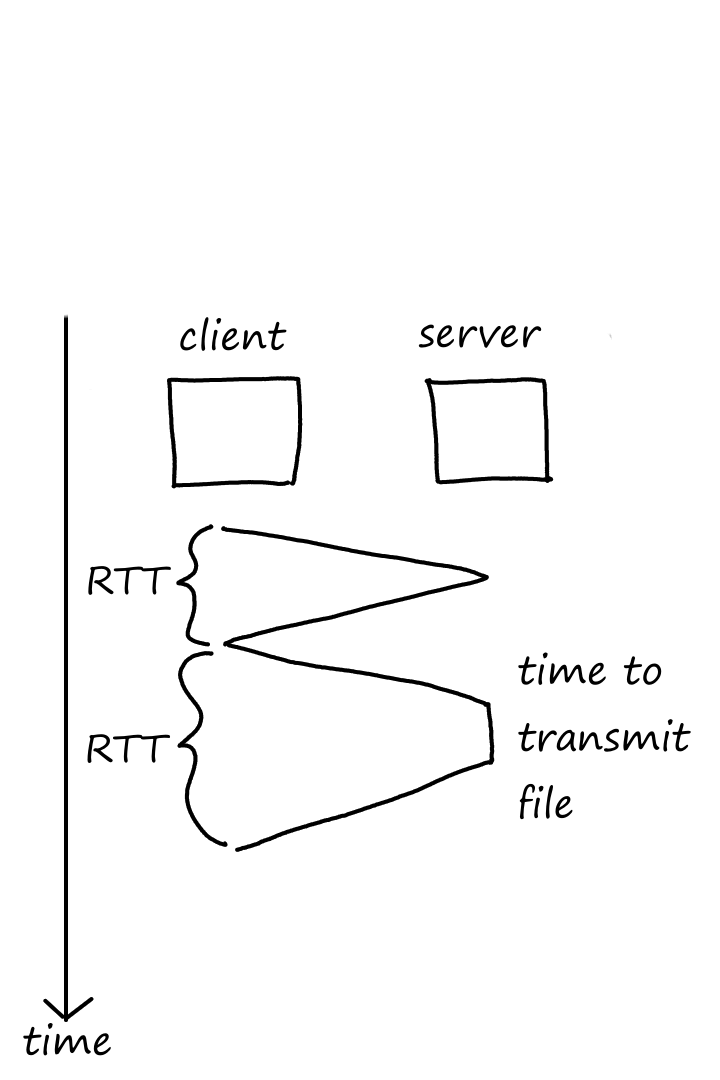
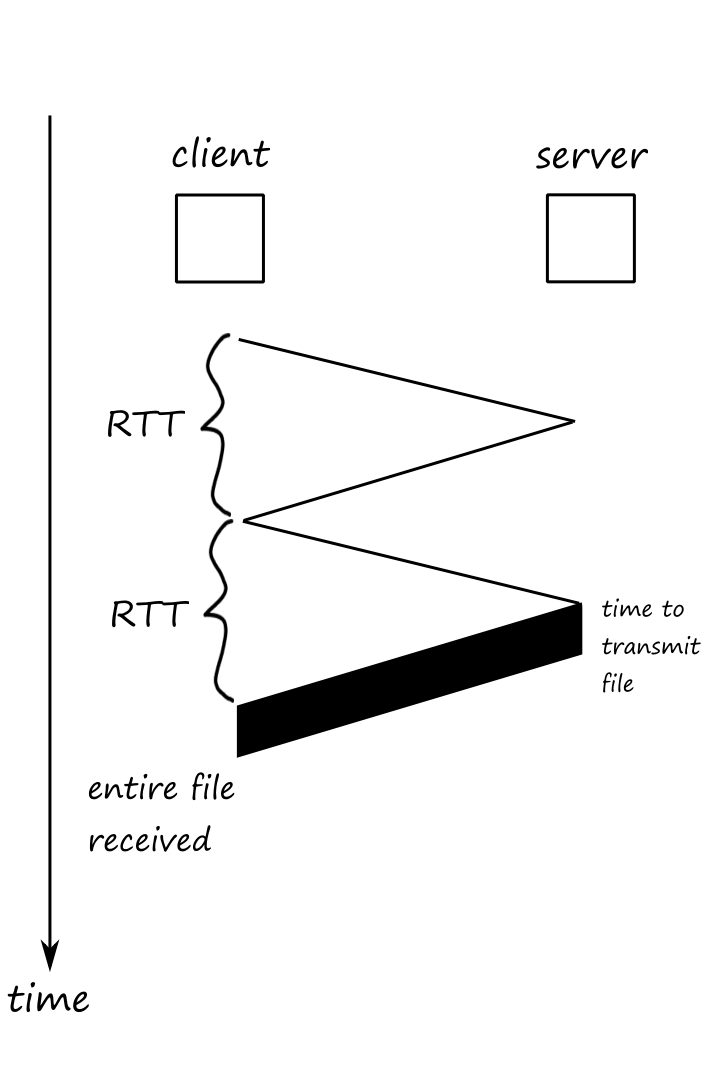
update networking

diff --git a/projects/networking.html b/projects/networking.html
@@ -143,8 +143,10 @@
           <img class="img-fluid ln-image-small" src="../pictures/networking/packet_switching.gif">
         </div>
         <p>Let's generalize this for `N` communication links and `P` packets.</p>
-        <p>Since the time it takes for one packet to travel across one communication link is `L/R`, it takes one packet `NL/R` time to travel across `N` communication links.</p>
-        <p>At time `NL/R`, the first packet will reach the destination. If there are `P` packets in total, then there will be `P-1` more times where there is a packet sitting in the last packet switch (i.e., there will be `P-1` more packets passing through the last packet switch). Since it takes `L/R` time to go from the last packet switch to the destination, it will take `(P-1)L/R` time for all the packets to reach the destination. So the total time it takes `P` packets to travel across `N` communication links is `NL/R+(P-1)L/R=(N+P-1)L/R`.</p>
+        <p>It's helpful to think about this from the point of view of the last packet.
+        <p>First, the last packet has to wait for the `P-1` packets ahead of it to be transmitted; this takes `(P-1)L/R` time.</p>
+        <p>Then it will be transmitted onto the link, which takes `L/R` time. Since there are `N` links, the total time the last packet will travel is `NL/R`.</p>
+        <p>So the total time it takes `P` packets to travel across `N` communication links is `(P-1)L/R+NL/R=(N+P-1)L/R`.</p>
       </div>
       <div class="ln-box">
         <p>Besides store-and-forward, there's also cut-through switching, in which the switch starts sending bits before the whole packet is received.</p>
@@ -157,9 +159,9 @@
       <h4>Okay, Some Packets Left Behind</h4>
       <p>Since the buffer can only be so big, if there isn't enough room for more incoming packets, some packets will be dropped, resulting in <b>packet loss</b>. Depending on the implementation, either the arriving packet or one of the packets in the buffer is dropped.</p>
       <h4>Forwarding Tables</h4>
-      <p>Again, packet switches usually have multiple links. So how does the packet switch know which link to use to send the packet? The answer is that each packet switch has a <b>forwarding table</b> that lists the destination of each link. When a packet arrives, the packet switch examines the packet to see its destination and searches it up in its forwarding table. The table tells the packet switch which link to use to get to the destination.</p>
+      <p>Again, packet switches usually have multiple links. So how does the packet switch know which link to send the packet to? The answer is that each packet switch has a <b>forwarding table</b> that lists the destination of each link. When a packet arrives, the packet switch examines the packet to see its destination and searches it up in the packet's forwarding table. The table tells the packet switch which link to use to get to the destination.</p>
       <h3>Circuit Switching</h3>
-      <p>With packet switching, the packets are sent and if there is a lot of traffic, then oh well. Maybe the data will take a long time to send, or worse, get dropped. To avoid this, we can reserve the resources ahead of time. This way, one connection won't be competing with other connections, i.e., the connection will have the links to itself. (Imagine being the only one on the road and no other cars are allowed to be on the road with you!)</p>
+      <p>With packet switching, the packets are sent and if there is a lot of traffic, then oh well. Maybe the data will take a long time to send — or worse — get dropped. To avoid this, we can reserve the resources ahead of time. This way, one connection won't be competing with other connections, i.e., the connection will have the links to itself. (Imagine being the only one on the road and no other cars are allowed to be on the road with you!)</p>
       <p>With circuit switching, each link has a number of circuits. One circuit per link is required for communication between two end systems. So a link with, for example, four circuits can support four different connections at the same time. However, each connection only gets a fraction of the link's transmission rate.</p>
       <div class="ln-box">
         <p>Suppose we have a link with four circuits and a transmission rate of `1` Mbps. Then each circuit can only transfer data at a rate of `1/4` Mbps, which is `250` kbps.</p>
@@ -169,7 +171,7 @@
       </div>
       <h4>Frequency-Division Multiplexing</h4>
       <p>Multiplexing is sending multiple signals as one big signal.</p>
-      <p>Multiple end systems can all use one link to transfer data if there are enough circuits. Each end system will be transferring different data, but they all get transferred over as "one big data" through the link. The way to differentiate which data came from which end system is to divide the link into different frequencies, like the example above.</p>
+      <p>Multiple end systems can all use one link to transfer data if there are enough circuits. Each end system will be transferring different data, but they all get transferred over as "one big data" through the link. The way to differentiate which data came from which end system is to divide the link into different frequencies, such as in the example above.</p>
       <div class="ln-box">
         <p>Radio uses FDM. We can tune in to a specific frequency to listen to the station we want.</p>
       </div>
@@ -271,8 +273,8 @@
       <div class="ln-center">
         <img class="img-fluid ln-image-small" src="../pictures/networking/isp_structure_2.png">
       </div>
-      <p>This, too, is costly. But to offset the cost, the global ISP would charge the other ISPs (we'll call them access ISPs from this point on) money to connect to the global ISP.</p>
-      <p>But if one global ISP becomes profitable, naturally there will be other global ISPs wishing to be profitable too.</p>
+      <p>While this is also costly, the global ISP would offset the cost by charging the other ISPs (we'll call them access ISPs from this point on) money to connect to the global ISP.</p>
+      <p>And if one global ISP becomes profitable, naturally there will be other global ISPs wishing to be profitable too.</p>
       <div class="ln-center">
         <img class="img-fluid ln-image-small" src="../pictures/networking/isp_structure_3.png">
       </div>
@@ -304,14 +306,14 @@
       <div class="ln-center">
         <img class="img-fluid ln-image-small" src="../pictures/networking/isp_structure_7.png">
       </div>
-      <p>There's one more piece: <b>content-provider networks</b>. Content providers are companies like Google, Amazon, and Microsoft.</p>
+      <p>There's one more piece: <b>content-provider networks</b>. Content providers are companies such as Google, Amazon, and Microsoft.</p>
       <div class="ln-center">
         <img class="img-fluid ln-image-small" src="../pictures/networking/isp_structure_8.png">
       </div>
       <p>They run their own private networks so that they can bring their services and content closer to users. They do this by having data centers distributed everywhere across the world. Each data center has tons of servers that are all connected to each other.</p>
       <p>And this is why the Internet is a network of networks. (Recall that ISPs themselves are networks of packet switches and links. There's also the edge network from the previous section, and each network in the edge network is a network of routers and links.)</p>
       <h2 id="delay">Delay, Loss, and Throughput</h2>
-      <p>In a (developer's) perfect world, data would travel through the Internet instantaneously without any limitations. But, we know things aren't perfect.</p>
+      <p>In a perfect world, data would travel through the Internet instantaneously without any limitations. But, we know things aren't perfect.</p>
       <h3>What's the Holdup?</h3>
       <p>As packets travel along their route, they experience <b>nodal processing delay</b>, <b>queuing delay</b>, <b>transmission delay</b>, and <b>propagation delay</b>. All these delays combined is called <b>total nodal delay</b>.</p>
       <h4>Processing Delay</h4>
@@ -454,7 +456,7 @@
         <p>Links in the network core are almost never the bottleneck link because they are usually over-provisioned with high speed links. Typically, the bottleneck links are in the access network.</p>
       </div>
       <h2 id="protocollayers">Protocol Layers</h2>
-      <p>There are many pieces to the Internet, like routers, links, applications ("apps"), protocols, and end systems. These pieces are organized into layers.</p>
+      <p>There are many pieces to the Internet, such as routers, links, applications ("apps"), protocols, and end systems. These pieces are organized into layers.</p>
       <h3>Layered Architecture: The Internet Is Like an Onion</h3>
       <p>The airline system can be seen as an organization of layers.</p>
       <table class="table">
@@ -652,7 +654,7 @@
       <p>From this point on, we'll go into more detail for each layer, starting with the application layer.</p>
       <hr>
       <h2 id="networkapplications">Principles of Network Applications</h2>
-      <p>A network application is a set of apps or programs that connect to and communicate with the Internet. These apps are made by our local software developers using languages like C, Java, or Python.</p>
+      <p>A network application is a set of apps or programs that connect to and communicate with the Internet. These apps are made by our local software developers using languages such as C, Java, or Python.</p>
       <p>Typically, network applications involve multiple programs running on different end systems. For example, we can download Spotify on our phone, tablet, computer, or watch. And Spotify will have a different program running on their servers to provide functionality to the app.</p>
       <h3>Network Application Architectures</h3>
       <p>There are 2 types of network application architectures: client-server and peer-to-peer (P2P).</p>
@@ -684,7 +686,7 @@
       <p>Throughput is the rate at which bits are transferred between the source and destination (Hmm, I feel like I've said these exact words before 🤔). A transport-layer protocol can guarantee a specified throughput of some amount of bits per second. This would be useful for voice calls, which need a certain throughput in order for the voices to be heard clearly. Applications that have throughput requirements are <b>bandwidth-sensitive applications</b>.</p>
       <p>Applications that don't are <b>elastic applications</b>. File transfers don't need a certain throughput. If more bits can be transferred, then the download will be faster. If fewer bits can be transferred, then the download will be slower.</p>
       <h4>Timing</h4>
-      <p>Whereas throughput is the number of bits going through, timing is the delay between each bit. One timing guarantee might be that bits go to the receiving process every 100 milliseconds. For real-time applications, like video calls and online games, it is ideal to have low delay.</p>
+      <p>Whereas throughput is the number of bits going through, timing is the delay between each bit. One timing guarantee might be that bits go to the receiving process every 100 milliseconds. For real-time applications, such as video calls and online games, it is ideal to have low delay.</p>
       <h4>Security</h4>
       <p>Before transferring the data, a transport protocol can encrypt it.</p>
       <h3>Transport Services Provided by the Internet</h3>
@@ -763,7 +765,7 @@
         <li>the meaning of the information in the fields</li>
         <li>rules for determining when and how processes send and respond to messages</li>
       </ul>
-      <p>Some protocols are defined in RFCs and are therefore public. While other protocols, like Skype's, are proprietary.</p>
+      <p>Some protocols are defined in RFCs and are therefore public. While other protocols, such as Skype's, are proprietary.</p>
       <h2 id="http">The Web and HTTP</h2>
       <p>The Internet became big in the 1990s with the arrival of the World Wide Web.</p>
       <h3>Some Dry Facts About HTTP</h3>
@@ -790,7 +792,11 @@
         <img class="img-fluid ln-image-smaller" src="../pictures/networking/http.gif">
       </div>
       <p>As we can see, it takes some time for the client to receive the file after making a request.</p>
-      <p>The <b>round-trip time (RTT)</b> is the time it takes for a packet to travel from client to server. The delays we saw in the "Delay, Loss, and Throughput" section also factor into the RTT.</p>
+      <p>The <b>round-trip time (RTT)</b> is the time it takes for a packet to travel from client to server. It includes queuing delay, processing delay, and propagation delay.</p>
+      <div class="ln-box">
+        <p>Notice that the definition of RTT is the time it takes for a <em>packet</em> — not an <em>object</em> — to travel from client to server and then back to the client. That is why transmission delay is not included in the definition of RTT.</p>
+        <p>RTT is a measure of how long it takes for the server to start getting back to the client, not how long it takes to completely get back to the client.</p>
+      </div>
       <div class="ln-center">
         <img class="img-fluid ln-image-smaller" src="../pictures/networking/rtt.png">
       </div>
@@ -803,14 +809,17 @@
         <p>Persistent parallel is the default in HTTP/1.1 (and later) and the example below will show why.</p>
       </div>
       <div class="ln-box">
+        <p>Note that parallel connections does not mean multiple links between client and server. If there is only one link between client and server and multiple objects are requested in parallel, I believe what happens is that the link transmits the objects in an alternating fashion.</p>
+      </div>
+      <div class="ln-box">
         <p>Suppose there is a `100`-kilobit page that contains `5` `100`-kilobit images, all of which are stored on a server. Suppose the round-trip time from the server to a client's browser is `200` milliseconds. For simplicity, we'll assume there is only one `100` Mbps link between the client and server; the time it takes to transmit a GET request onto the link is zero. Note that based on the assumptions, the link has a `100` millisecond one-way propagation delay as well as a transmission delay (for the page and images).</p>
         <p>For non-persistent, non-parallel connections, how long is the response time? (The time from when the user requests the URL to the time when the page and its images are displayed?)</p>
         <div class="collapse ln-box" id="http_q1">
-          <p>Let's start with the base file. It takes `1` RTT to establish the TCP connection and another `1` RTT to get the base file. So it takes a total of `2` RTTs for the base file. We are given that one RTT is `200` milliseconds, so it takes `200*2=400` milliseconds for the base file to propagate through the link.</p>
+          <p>Let's start with the base file. It takes `1` RTT to establish the TCP connection and another `1` RTT to start getting the base file. So there are a total of `2` RTTs for the base file. We are given that one RTT is `200` milliseconds, so the RTT is `200*2=400` milliseconds.</p>
           <p>The transmission delay for the base file is `L/R=(100text( kb))/(100text( Mbps))=(100,000text( bits))/(100,000,000text( bits/s))=0.001` seconds `=1` millisecond.</p>
           <p>So the total time it takes to get the base file is `400+1=401` milliseconds.</p>
           <p>Now for the objects. Since it is non-persistent, the TCP connection for the base file will be closed and new ones (`1` each) will be needed for the objects. Since it is non-parallel, the previous TCP connection has to close before a new one opens.</p>
-          <p>For one object, it takes `1` RTT to establish the TCP connection, and `1` RTT to get the object. So `2` RTTs for one object. For `5` objects, this is a total of `5*2=10` RTTs. In terms of milliseconds, this is `200*10=2000` milliseconds.</p>
+          <p>For one object, it takes `1` RTT to establish the TCP connection, and `1` RTT to start getting the object. So `2` RTTs for one object. For `5` objects, this is a total of `5*2=10` RTTs. In terms of milliseconds, this is `200*10=2000` milliseconds.</p>
           <p>The transmission delay for one object is the same for the base file. Then for `5` objects, the transmission delay is `1*5=5` milliseconds.</p>
           <p>So the total time it takes to get all of the objects is `2000+5=2005` milliseconds.</p>
           <p>Bringing the total time for the whole Web page to `2005+401=2406` milliseconds `=2.406` seconds.</p>
@@ -818,11 +827,11 @@
         <button class="btn" type="button" data-bs-toggle="collapse" data-bs-target="#http_q1" aria-expanded="false" aria-controls="http_q1">Answer</button>
         <p>What about for non-persistent, parallel connections?</p>
         <div class="collapse ln-box" id="http_q2">
-          <p>Again, we'll start with the base file. It takes `1` RTT to establish the TCP connection and another `1` RTT to get the base file. So `2` RTTs. Same as before, `2*200=400` milliseconds for the base file to propagate.</p>
+          <p>Again, we'll start with the base file. It takes `1` RTT to establish the TCP connection and another `1` RTT to start getting the base file. So `2` RTTs. Same as before, `2*200=400` milliseconds for the RTTs for the base file.</p>
           <p>The transmission delay is also the same at `1` millisecond.</p>
           <p>So the total time it takes to get the base file is `400+1=401` milliseconds.</p>
-          <p>For the objects, since the connections are parallel, all `5` TCP connections will be opened in parallel in `1` RTT and all `5` objects will be retrieved at the same time in `1` RTT. So `2` RTTs for all `5` objects. This means it takes `2*200=400` milliseconds for them to propagate.</p>
-          <p>Even though the connections are parallel, the objects are not transmitted onto the link in parallel. (There is only one link, so only one object can be transmitted at a time.) As we saw before, it takes `1` millisecond to transmit `1` object. So for `5` objects, `5` milliseconds.</p>
+          <p>For the objects, since the connections are parallel, all `5` TCP connections will be opened in parallel in `1` RTT and all `5` objects will start to be retrieved at the same time in `1` RTT. So `2` RTTs for all `5` objects. This means it takes `2*200=400` milliseconds for the RTTs of all `5` objects.</p>
+          <p>Even though the connections are parallel, the objects are not transmitted onto the link in parallel. As we saw before, it takes `1` millisecond to transmit `1` object. So for `5` objects, `5` milliseconds.</p>
           <p>So the total time it takes to get all of the objects is `400+5=405` milliseconds.</p>
           <p>Bringing the total time for the whole Web page to `401+405=806` milliseconds `=0.806` seconds.</p>
         </div>
@@ -831,7 +840,7 @@
         <div class="collapse ln-box" id="http_q3">
           <p>We open the TCP connection and wait for the base file to transmit and propagate, which takes `401` milliseconds.</p>
           <p>For the objects, since the connection is persistent, we don't need to open any more TCP connections.</p>
-          <p>But since it is non-parallel, we need to get the objects one at a time. `1` RTT for each object means `5` RTTs for all objects, which means `5*200=1000` milliseconds for all objects to propagate.</p>
+          <p>But since it is non-parallel, we need to get the objects one at a time. `1` RTT for each object means `5` RTTs for all objects, which means `5*200=1000` milliseconds for the RTTs.</p>
           <p>And `5` milliseconds to transmit.</p>
           <p>So the total time it takes to get all of the objects is `1000+5=1005` milliseconds.</p>
           <p>Bringing the total time for the whole Web page to `401+1005=1406` milliseconds `=1.406` seconds.</p>
@@ -840,7 +849,7 @@
         <p>What about for persistent, parallel connections?</p>
         <div class="collapse ln-box" id="http_q4">
           <p>The base file takes `401` milliseconds to transmit and propagate.</p>
-          <p>We don't need to open any more TCP connections, and all `5` objects will be retrieved at once in `1` RTT. So `200` milliseconds to propagate.</p>
+          <p>We don't need to open any more TCP connections, and all `5` objects will start to be retrieved at once in `1` RTT. So `200` milliseconds.</p>
           <p>`5` milliseconds to transmit.</p>
           <p>So the total time it takes to get all of the objects is `200+5=205` milliseconds.</p>
           <p>Bringing the total time for the whole Web page to `401+205=606` milliseconds `=0.606` seconds.</p>
@@ -848,7 +857,7 @@
         <button class="btn" type="button" data-bs-toggle="collapse" data-bs-target="#http_q4" aria-expanded="false" aria-controls="http_q4">Answer</button>
       </div>
       <h3>HTTP/2</h3>
-      <p>Opening multiple connections results in the server having to open and maintain multiple sockets. However, using only one TCP connection introduces a problem called <b>Head of Line (HOL) blocking</b>. Let's say the base file has a large video clip near the top and many small objects below the video. Being near the top, the video will be requested first. Especially if the bottleneck link is bad, the video will take some time to transfer, causing the objects to have to wait for the video. The video at the head of the line blocks the objects behind it. Using parallel connections is one way to solve this problem.</p>
+      <p>If we use only one TCP connection, we run into a problem called <b>Head of Line (HOL) blocking</b>. Let's say the base file has a large video clip near the top and many small objects below the video. Being near the top, the video will be requested first. Especially if the bottleneck link is bad, the video will take some time to transfer, causing the objects to have to wait for the video. The video at the head of the line blocks the objects behind it. Using parallel connections is one way to solve this problem, but multiple connections means the server has to open and maintain multiple sockets, which is not good if it can be avoided.</p>
       <p>Standardized in 2015, HTTP/2 introduced a way to allow for using one TCP connection without experiencing HOL blocking.</p>
       <h4>HTTP/2 Framing</h4>
       <p>The solution is to break each object into small frames and interleave them. That way, each response will contain parts of each object.</p>
@@ -921,7 +930,7 @@
       <p><code>HTTP/1.1 304 Not Modified<br>Date: Sun, 24 Sep 2023 15:39:09<br>Server: Apache/1.3.0 (Unix)</code></p>
       <p>The entity body will be empty since it is pointless to send the object. However, if the object had been modified, the object would have been sent in the entity body.</p>
       <h2 id="email">Email</h2>
-      <p>The Internet's mail system has three components: user agents, mail servers, and the Simple Mail Transfer Protocol (SMTP). <b>User agents</b> are applications that allow us to read and write emails, like Gmail and Outlook. <b>Mail servers</b> store emails in <b>mailboxes</b> and send emails to other peoples' mailboxes. Before being sent, emails wait in the sender's mail server's <b>message queue</b>.</p>
+      <p>The Internet's mail system has three components: user agents, mail servers, and the Simple Mail Transfer Protocol (SMTP). <b>User agents</b> are applications, such as Gmail and Outlook, that allow us to read and write emails. <b>Mail servers</b> store emails in <b>mailboxes</b> and send emails to other peoples' mailboxes. Before being sent, emails wait in the sender's mail server's <b>message queue</b>.</p>
       <div class="ln-box">
         <p>We, as individuals, have our own mail servers (in a sense). This may sound a little weird (what? I'm running a server?). When we create an email account on, say, Google, Google manages a mail server for us. This mail server is shared with other Google users. (Note, the mail server is shared, not the mailbox.)</p>
       </div>
